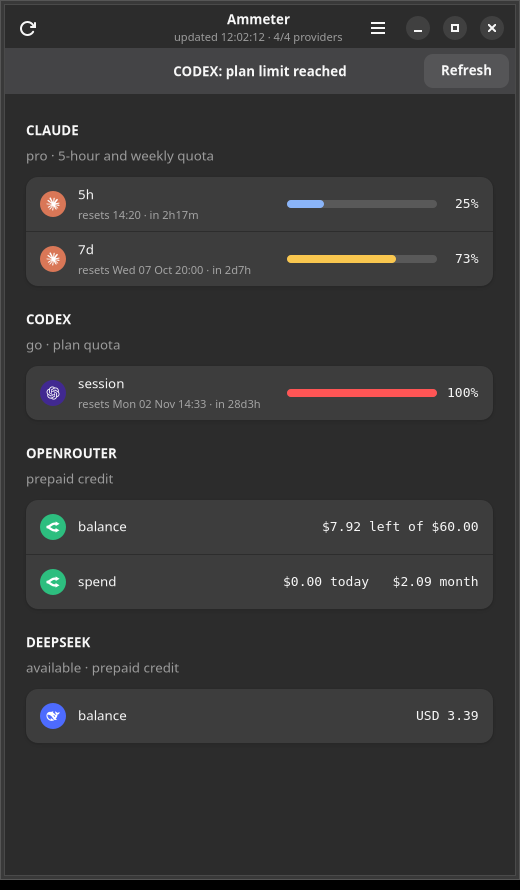
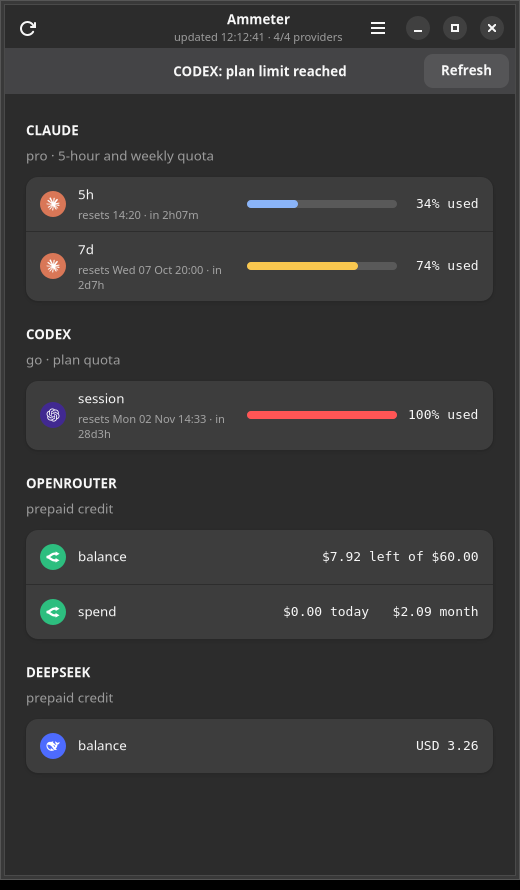
Say 'used' on every percentage, and drop the redundant 'available'
A bare '33%' next to a bar is read both ways - the question that prompted this was whether 33 was
consumed or remaining. Every quota row now reads '33% used' from one shared helper (used_label), so
the CLI, the tkinter window, the GTK app and the GNOME menu cannot drift apart.

DeepSeek's group header read 'available - prepaid credit'; 'available' is the default state and says
nothing, so the provider only speaks up when the account is not usable ('unavailable').

README and the screenshot follow the new wording.

diff --git a/gnome-extension/format.js b/gnome-extension/format.js
@@ -51,7 +51,7 @@ export function renderLines(data) {
                     worst = Math.max(worst, pct);
                     lines.push(`<span foreground="${COLOR.dim}">${esc(r.label.padEnd(8))}</span>`
                         + `<span foreground="${pct >= 90 ? COLOR.crit : COLOR[d.key] ?? COLOR.text}">${bar(pct)}</span>`
-                        + ` ${String(pct).padStart(3)}%  ${esc(r.note)}`);
+                        + ` ${pct}% used  ${esc(r.note)}`);
                 }
             }
         }

diff --git a/ammeter/cli.py b/ammeter/cli.py
@@ -25,6 +25,7 @@ from .formatting import (
     parse_dt,
     relative_reset,
     reset_note,
+    used_label,
 )
 
 REPO = Path(__file__).resolve().parent.parent
@@ -44,8 +45,11 @@ def render_text(data):
         if entry.get("error"):
             lines.append(f"     ! {entry['error']}")
         for row in entry["rows"]:
-            value = "" if row["pct"] is None else f"{row['pct']:>3}%  " + bar(row["pct"])
-            lines.append(f"     {row['label']:<9}{value:<{BAR_WIDTH + 7}}{row['note']}")
+            if row["pct"] is None:
+                lines.append(f"     {row['label']:<9}{row['note']}")
+            else:
+                lines.append(f"     {row['label']:<9}{used_label(row['pct']):>9}  "
+                             f"{bar(row['pct'])}  {row['note']}")
     return "\n".join(lines)
 
 
@@ -54,6 +58,8 @@ def selftest():
     assert len(bar(0)) == BAR_WIDTH and bar(0) == EMPTY * BAR_WIDTH
     assert bar(100) == FILLED * BAR_WIDTH and bar(50).count(FILLED) == BAR_WIDTH // 2
     assert bar(-5) == EMPTY * BAR_WIDTH and bar(999) == FILLED * BAR_WIDTH
+    assert used_label(25) == "25% used", "a bare percentage is read both ways"
+    assert used_label(100.4) == "100% used"
 
     far = "2030-01-02T03:04:00+00:00"
     assert "02 Jan 2030" in absolute_reset(iso=far), "a reset days away must show its date"

diff --git a/ammeter/float_window.py b/ammeter/float_window.py
@@ -11,7 +11,7 @@ from datetime import datetime
 
 from . import COLOURS, MARKS, REFRESH_SECONDS, STATUS
 from .core import collect
-from .formatting import bar, severity
+from .formatting import bar, severity, used_label
 
 BACKGROUND = "#0b0b11"
 RULE = "#23232f"
@@ -110,7 +110,7 @@ def run(data, refresh_seconds=REFRESH_SECONDS, framed=False):
                     tk.Label(body, text=bar(pct), bg=BACKGROUND, width=BAR_CELLS, anchor="w",
                              fg=value_colour(pct, accent), font=(MONO, 10)).grid(
                         row=line, column=2, sticky="w")
-                    tk.Label(body, text=f"{int(pct):>3}%   {row['note']}", bg=BACKGROUND,
+                    tk.Label(body, text=f"{used_label(pct):>9}   {row['note']}", bg=BACKGROUND,
                              fg=FOREGROUND, font=(MONO, 10), anchor="w").grid(
                         row=line, column=3, sticky="w", padx=(4, 14))
                 line += 1

diff --git a/ammeter/gtk_app.py b/ammeter/gtk_app.py
@@ -14,7 +14,7 @@ from pathlib import Path
 
 from . import APP_ID, APP_NAME, COLOURS, ICON_NAMES, REFRESH_SECONDS, STATUS, __version__
 from .core import collect, live_providers, problems
-from .formatting import severity
+from .formatting import severity, used_label
 
 import gi
 
@@ -154,7 +154,7 @@ class UsageWindow(Adw.ApplicationWindow):
         level = severity(pct)
         if level:
             progress.add_css_class(level)
-        label = Gtk.Label(label=f"{int(pct)}%", valign=Gtk.Align.CENTER, xalign=1.0, width_chars=4)
+        label = Gtk.Label(label=used_label(pct), valign=Gtk.Align.CENTER, xalign=1.0, width_chars=9)
         label.add_css_class("pct")
         box = Gtk.Box(orientation=Gtk.Orientation.HORIZONTAL, spacing=10)
         box.append(progress)

diff --git a/ammeter/formatting.py b/ammeter/formatting.py
@@ -77,6 +77,15 @@ def quota_row(label, pct, resets_at=None):
             "note": reset_note(iso=resets_at)}
 
 
+def used_label(pct):
+    """Spell out that a percentage is consumption, not what is left.
+
+    A bare '33%' next to a bar is read both ways; the bar fills up as the quota is consumed, so say
+    'used' and let the balance rows carry the money instead.
+    """
+    return f"{int(pct)}% used"
+
+
 def balance_row(label, note):
     """A row carrying money instead of a quota: no bar, so no percentage."""
     return {"label": label, "pct": None, "note": note}

diff --git a/ammeter/providers.py b/ammeter/providers.py
@@ -113,7 +113,8 @@ def deepseek():
         rows.append(balance_row("balance", note))
     if not rows:
         rows.append(balance_row("balance", "no balance reported"))
-    return {"name": "DEEPSEEK", "sub": "available" if data.get("is_available") else "unavailable",
+    # "available" is noise in the header; only speak up when the account cannot be used
+    return {"name": "DEEPSEEK", "sub": "" if data.get("is_available") else "unavailable",
             "rows": rows}
 
 

diff --git a/README.md b/README.md
@@ -36,6 +36,10 @@ countdowns, plus the prepaid balances that quietly run dry.
 Quota providers get a bar that turns amber at 70% and red at 90%; pay-as-you-go providers get their
 balance, because a percentage of a top-up you can refill is not the same thing as a quota you cannot.
 
+Numbers are never ambiguous about direction: every percentage is **consumption**, and reads
+`33% used` — the bar fills as the quota is spent, so nothing has to be inferred from a bare `33%`.
+The prepaid providers report money instead of a percentage for the same reason.
+
 ## Install
 
 Requirements: a Linux desktop with Python 3.10+; PyGObject with `Gtk-4.0` and `Adw-1.0` for the app
@@ -67,15 +71,15 @@ ammeter --version
 
 ```
 ✳  CLAUDE  (pro)
-     5h        25%  ▓▓▓░░░░░░░░░ resets 14:20 · in 2h17m
-     7d        73%  ▓▓▓▓▓▓▓▓▓░░░ resets Wed 07 Oct 20:00 · in 2d7h
+     5h        33% used  ▓▓▓▓░░░░░░░░  resets 14:20 · in 2h07m
+     7d        74% used  ▓▓▓▓▓▓▓▓▓░░░  resets Wed 07 Oct 20:00 · in 2d7h
 ◆  CODEX  (go)
-     session  100%  ▓▓▓▓▓▓▓▓▓▓▓▓ resets Mon 02 Nov 14:33 · in 28d3h
+     session  100% used  ▓▓▓▓▓▓▓▓▓▓▓▓  resets Mon 02 Nov 14:33 · in 28d3h
 ⇄  OPENROUTER
-     balance                     $7.92 left of $60.00
-     spend                       $0.00 today   $2.09 month
-◉  DEEPSEEK  (available)
-     balance                     USD 3.39
+     balance  $7.92 left of $60.00
+     spend    $0.00 today   $2.09 month
+◉  DEEPSEEK
+     balance  USD 3.26
 
 4/4 providers · Ammeter 0.3.0 · refreshed every 120s
 ```
